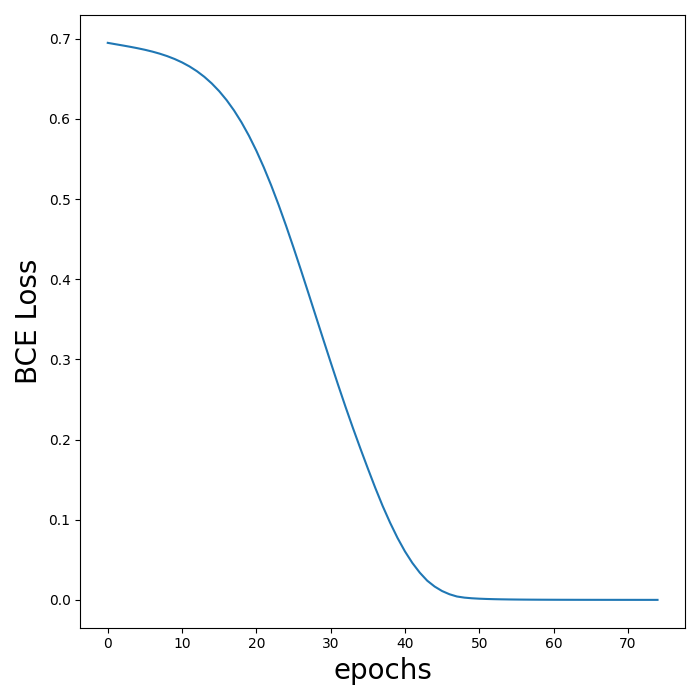
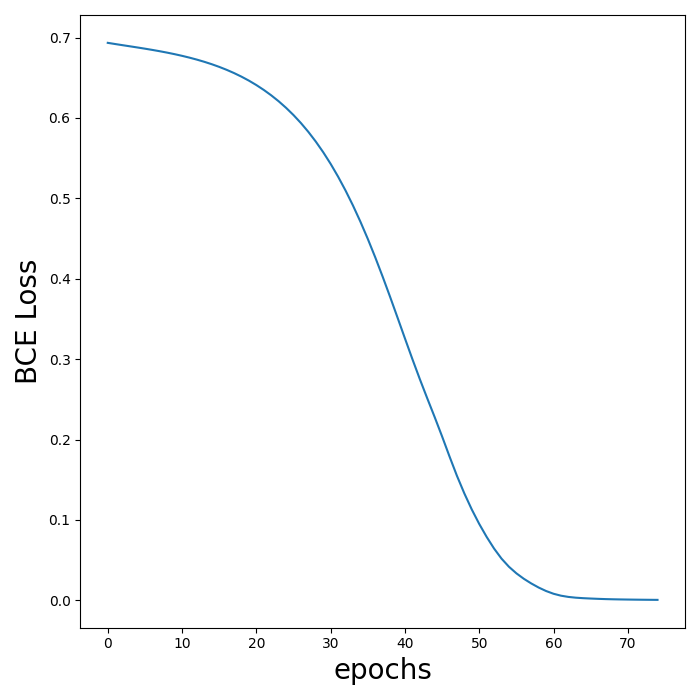
using LSTM

diff --git a/src/binaryclassification/LSTM_implementation.py b/src/binaryclassification/LSTM_implementation.py
@@ -1,0 +1,197 @@
+import os
+
+cwd = os.path.dirname(__file__)
+
+from collections import defaultdict
+
+import matplotlib.pyplot as plt
+import numpy as np
+import torch
+import torch.nn as nn
+
+# -- hyperparameters
+vocab_size = 10000
+embedding_dim = 100
+num_heads = 4
+hidden_dim = 64
+learning_rate = 0.001
+epochs = 75
+
+
+# -- create dummy data
+batch_size = 1024
+sequence_length = 20
+x = torch.randint(
+    0, vocab_size, (batch_size, sequence_length)
+)  # shape (batch_size, sequence_lenght)
+y = torch.randint(0, 2, (batch_size, 1)).float()  # binary labels
+
+
+# -- model
+class MyBinaryClassifier(nn.Module):
+    """
+    An multi-head attention layer on embeddings learned from input vectors, followed by a logistic classifier
+    """
+
+    def __init__(self, embedding_dim, vocab_size, hidden_dim, num_heads) -> None:
+        super().__init__()
+        self.embedding = nn.Embedding(
+            num_embeddings=vocab_size, embedding_dim=embedding_dim
+        )  # lookup table shape (vocab_size, embedding_dim)
+        
+        self.lstm = nn.LSTM(input_size=embedding_dim, hidden_size=hidden_dim, batch_first=True)  # expects (batch_size, sequence_length, input_size) and outputs (batch_size, sequence_length, hidden_size)
+        """
+        output_sequence, (h_n, c_n) = self.lstm(x)
+        
+            output_sequence (batch_size, sequence_length, hidden_size): output sequence of the LSTM for each time step. a[i, j, :] contains the hidden state at time step j for the sample i in the batch.
+            
+            h_n (num_layers * num_directions, batch_size, hidden_size): the hidden state of the LSTM at the last time step.
+            c_n (num_layers * num_directions, batch_size, hidden_size): the cell state of the LSTM at the last time step.
+        
+        """
+        self.fc1 = nn.Linear(hidden_dim, hidden_dim)
+        self.relu = nn.ReLU()
+        self.out = nn.Linear(hidden_dim, 1)
+        self.sigmoid = nn.Sigmoid()
+
+    def forward(self, x):
+        """ 
+        recieves x.shape = (batch_size, sequence_length)
+        """
+        # -- embedding of input strings; generates (batch_size, sequence_length, embedding_dim)
+        x = self.embedding(x)
+        
+        # -- LSTM; generates (batch_size, sequence_length, embedding_dim)
+        output_sequence, (h_n, c_n) = self.lstm(x)  # (1024, 20, 100) -> (1024, 20, 64)
+        
+        #-- pooling
+        # x = output_sequence.mean(dim=1)  # avg pooling across sequence_length => generates (B, embedding_dim)
+        x = output_sequence[:,-1,:]  # use last time_step output as the feature pooling 
+        
+        # -- logistic classifier top; generates (batch_size, 1) with probabilities in [0, 1]
+        x = self.fc1(x)
+        x = self.relu(x)
+        x = self.out(x)
+        x = self.sigmoid(x)
+        return x
+
+
+model = MyBinaryClassifier(
+    embedding_dim=embedding_dim,
+    vocab_size=vocab_size,
+    hidden_dim=hidden_dim,
+    num_heads=num_heads,
+)
+optimizer = torch.optim.Adam(model.parameters(), lr=learning_rate)
+criterion = nn.BCELoss()
+
+"""
+Training
+"""
+losses = []
+model.train()
+for epoch in range(epochs):
+    optimizer.zero_grad()
+    output = model(x)
+    loss = criterion(output, y)
+    loss.backward()
+    optimizer.step()
+    print(f"Epoch = {epoch+1} : Loss = {loss}")
+    losses.append(loss.detach().numpy().item())
+
+
+save_path = os.path.join(cwd, "results/binary_classification.png")
+plt.figure(figsize=(7, 7))
+plt.plot(range(epochs), losses)
+plt.xlabel("epochs", fontsize=20)
+plt.ylabel("BCE Loss", fontsize=20)
+plt.tight_layout()
+plt.savefig(save_path)
+
+
+"""
+Evaluation
+"""
+
+
+def binarize(prediction, threshold=0.5):
+    if prediction <= threshold:
+        return 0
+    else:
+        return 1
+
+
+def evaluate_model(threshold, verbose=False):
+    with torch.no_grad():
+        model.eval()
+        predictions = model(x)
+
+        TP = 0
+        FP = 0
+        TN = 0
+        FN = 0
+        for i in range(batch_size):
+            pi = binarize(predictions[i].item(), threshold=threshold)
+            ti = y[i].int().item()
+
+            if verbose:
+                print(f"{pi} ? {ti}")
+            if pi == 1 and ti == 1:
+                TP += 1
+            elif pi == 1 and ti == 0:
+                FP += 1
+            elif pi == 0 and ti == 1:
+                FN += 1
+            elif pi == 0 and ti == 0:
+                TN += 1
+
+    # -- confusion matrix
+    confusion_matrix = defaultdict(int)
+    confusion_matrix["TP"] = TP
+    confusion_matrix["FP"] = FP
+    confusion_matrix["TN"] = TN
+    confusion_matrix["FN"] = FN
+    # -- metrics
+    metrics = defaultdict(float)
+    accuracy = (TP + TN) / (TP + TN + FP + FN)
+    precision = TP / (TP + FP) if (TP + FP) > 0 else 0.0
+    recall = TP / (TP + FN) if (TP + FN) > 0 else 0.0
+    f1 = (
+        2 * precision * recall / (precision + recall)
+        if (precision + recall > 0)
+        else 0.0
+    )
+    TPR = TP / (TP + FP) if (TP + FP) > 0 else 0.0  # True Positive Rate
+    FPR = FP / (TN + FP) if (TN + FP) > 0 else 0.0  # False Positive Rate
+    metrics["accuracy"] = accuracy
+    metrics["precision"] = precision
+    metrics["recall"] = recall
+    metrics["f1-score"] = f1
+    metrics["TPR"] = TPR
+    metrics["FPR"] = FPR
+
+    return confusion_matrix, metrics
+
+
+threshold = 0.5
+confusion_matrix, metrics = evaluate_model(threshold=threshold)
+print(*confusion_matrix.items(), sep="\t")
+print(*metrics.items(), sep="\t")
+print("done!")
+
+# -- compute ROC
+thresholds = np.linspace(0.2, 0.8, 10)
+TPRs = []
+FPRs = []
+for threshold in thresholds:
+    confusion_matrix, metrics = evaluate_model(threshold=threshold)
+    TPRs.append(metrics["TPR"])
+    FPRs.append(metrics["FPR"])
+
+save_path = os.path.join(cwd, "results/ROC.png")
+plt.figure(figsize=(7, 7))
+plt.scatter(FPRs, TPRs)
+plt.xlabel("FPR", fontsize=20)
+plt.ylabel("TPR", fontsize=20)
+plt.tight_layout()
+plt.savefig(save_path)
